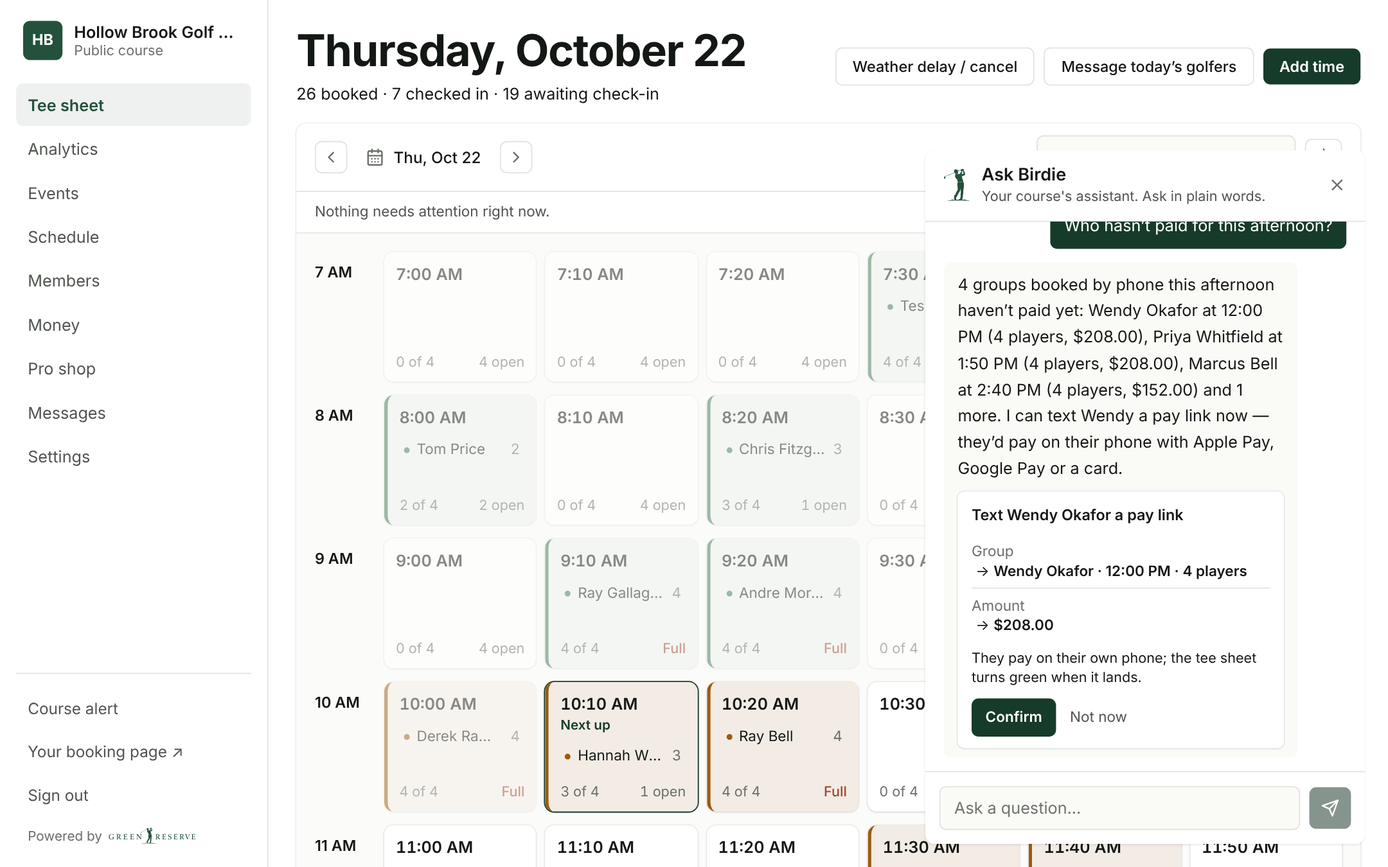
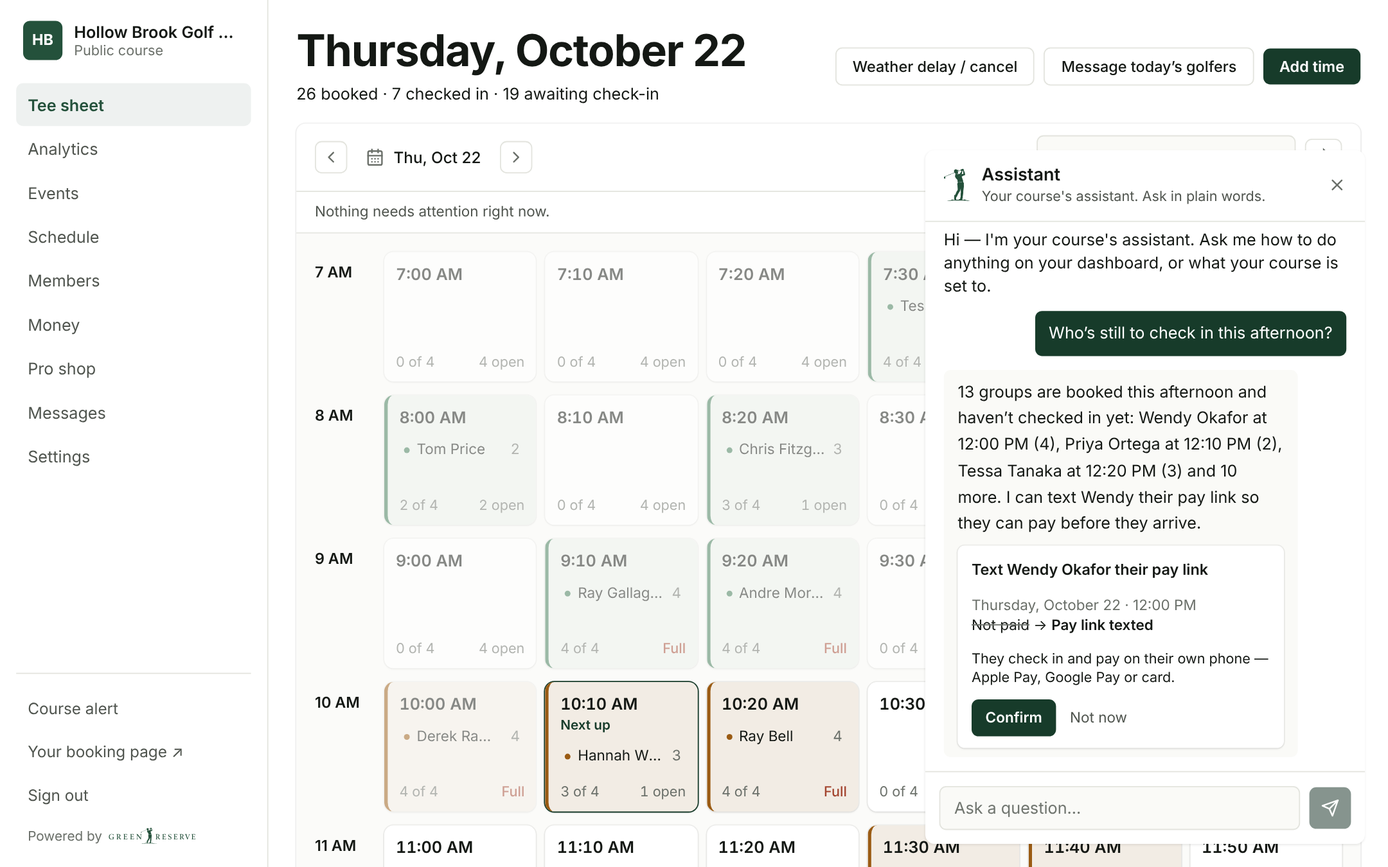
Screenshots review: the assistant shot uses the real pay-link card and only what its tee-sheet tool sees; the assistant is renamed in the product (Cam: no "Birdie" anywhere a course sees); a test for the pay-page fee line
Claude-Session: https://claude.ai/code/session_01Vfo7VSpLbxXZMJzCVcNzFL

Changed region(s): [[0.6824, 0.2489, 0.9926, 0.84], [0.7134, 0.1867, 0.7755, 0.2178]]

diff --git a/STATUS.artifact.html b/STATUS.artifact.html
@@ -117,14 +117,15 @@ footer{border-top:1px solid var(--line);padding-top:16px;font-size:12.5px;color:
     <p class="sub">Generated from <code>RUN_QUEUE.md</code>, <code>REVISE_QUEUE.md</code>, <code>ADMIN_MASTER_PLAN.md</code> and <code>git log</code>. Nothing here is hand-maintained &mdash; if a line is wrong, the source doc is wrong.</p>
   </div>
   <div class="meta">
-    <span>2026-10-23 02:19 UTC</span><span>claude/walkthrough-2-prioritization-ui5xyu @ b4ba083</span>
-    <span>11 uncommitted</span>
+    <span>2026-10-23 02:33 UTC</span><span>claude/walkthrough-2-prioritization-ui5xyu @ dd3cfd1</span>
+    <span>17 uncommitted</span>
   </div>
 </header>
 <div class="alarm">
-<div class="lede">138 runs have shipped that the queue doesn't know about</div>
+<div class="lede">139 runs have shipped that the queue doesn't know about</div>
 <p class="note">RUN_QUEUE.md was last committed 2026-10-17. These commits appear nowhere in it.</p>
 <ul>
+<li><span class="h">dd3cfd1</span><span>Product screenshots: three feature rows on the homepage, shots on /teesheet, seed + capture scripts; no $0.00 fee line on the pay page; sign-up card says when there's no player limit</span></li>
 <li><span class="h">b4ba083</span><span>TEST-2: test courses stay out of platform numbers, Problems and public lists (#193)</span></li>
 <li><span class="h">3754fcb</span><span>TEST-1: launch wipe of test data, and resettable test courses (#190)</span></li>
 <li><span class="h">d0a4769</span><span>CI: the schema check replays migrations on its own Postgres (#192)</span></li>
@@ -275,7 +276,7 @@ footer{border-top:1px solid var(--line);padding-top:16px;font-size:12.5px;color:
 <section><h2>Working tree right now</h2>
 <div class="card flag">
 <h3>A build looks mid-run</h3><p>New migration or source files are untracked. Don't run the queue header's <code>git checkout -- .</code> cleanup until this run commits, or the work is gone.</p>
-<ul class="plain"><li><code>M HOMEPAGE_SPEC.md</code></li><li><code>M docs/CODEMAP.md</code></li><li><code>M docs/codemap.json</code></li><li><code>M src/app/HomeContent.tsx</code></li><li><code>M src/app/checkin/[bookingId]/page.tsx</code></li><li><code>M src/app/home.module.css</code></li><li><code>M src/app/teesheet/page.tsx</code></li><li><code>M src/components/dashboard/events/EventSignup.tsx</code></li><li><code>?? public/home/shots/</code></li><li><code>?? scripts/screenshots/</code></li><li><code>?? src/components/home/ProductShot.tsx</code></li></ul>
+<ul class="plain"><li><code>M CLAUDE.md</code></li><li><code>M HOMEPAGE_SPEC.md</code></li><li><code>M public/home/shots/assistant.png</code></li><li><code>M public/home/shots/pay.png</code></li><li><code>M public/home/shots/tee-sheet.png</code></li><li><code>M scripts/birdie-messages-test.ts</code></li><li><code>M scripts/checkin-wording-test.ts</code></li><li><code>M scripts/screenshots/capture.ts</code></li><li><code>M scripts/screenshots/seed.ts</code></li><li><code>M src/app/HomeContent.tsx</code></li><li><code>M src/app/api/birdie/chat/route.ts</code></li><li><code>M src/app/dashboard/analytics/page.tsx</code></li><li><code>M src/app/dashboard/settings/page.tsx</code></li><li><code>M src/app/teesheet/page.tsx</code></li><li><code>M src/components/birdie/BirdieWidget.tsx</code></li><li><code>M src/components/birdie/ConfirmCard.tsx</code></li><li><code>M src/lib/birdie/guardrails.ts</code></li></ul>
 </div></section>
 <div class="cols"><div class="stack">
 <section><h2>Not started &mdash; in queue order</h2><div class="ledger">
@@ -320,8 +321,8 @@ footer{border-top:1px solid var(--line);padding-top:16px;font-size:12.5px;color:
 <tr><td><code>CLAUDE.md</code></td><td class="num">1</td><td class="num">2026-10-22 &middot; 0d</td></tr>
 <tr><td><code>PLATFORM_ROADMAP_SPEC.md</code></td><td class="num">1</td><td class="num">2026-10-17 &middot; 5d</td></tr>
 <tr><td><code>ADMIN_V5_SPEC.md</code></td><td class="num">&mdash;</td><td class="num">2026-10-22 &middot; 0d</td></tr>
+<tr><td><code>HOMEPAGE_SPEC.md</code></td><td class="num">&mdash;</td><td class="num">2026-10-23 &middot; 0d</td></tr>
 <tr><td><code>OPERATOR_REWORK_SPEC.md</code></td><td class="num">&mdash;</td><td class="num">2026-10-22 &middot; 0d</td></tr>
-<tr><td><code>HOMEPAGE_SPEC.md</code></td><td class="num">&mdash;</td><td class="num">2026-10-19 &middot; 3d</td></tr>
 <tr><td><code>AGREEMENT_SPEC.md</code></td><td class="num">&mdash;</td><td class="num">2026-10-11 &middot; 11d</td></tr>
 <tr><td><code>ADMIN_MASTER_PLAN.md</code></td><td class="num">&mdash;</td><td class="num">2026-10-07 &middot; 15d</td></tr>
 <tr><td><code>ADMIN_REBUILD_SPEC.md</code></td><td class="num">&mdash;</td><td class="num">2026-10-07 &middot; 15d</td></tr>
@@ -356,6 +357,7 @@ footer{border-top:1px solid var(--line);padding-top:16px;font-size:12.5px;color:
 <tr><td><code>UI_REVISE_SPEC.md</code></td><td class="num">&mdash;</td><td class="num">2026-10-07 &middot; 15d</td></tr>
 </tbody></table></div></section>
 <section><h2>Recent commits</h2><div class="tablewrap"><table><tbody>
+<tr><td class="num">dd3cfd1</td><td class="num">2026-10-23</td><td>Product screenshots: three feature rows on the homepage, shots on /teesheet, seed + capture scripts; no $0.00 fee line on the pay page; sign-up card says when there's no player limit</td></tr>
 <tr><td class="num">b4ba083</td><td class="num">2026-10-22</td><td>TEST-2: test courses stay out of platform numbers, Problems and public lists (#193)</td></tr>
 <tr><td class="num">3754fcb</td><td class="num">2026-10-22</td><td>TEST-1: launch wipe of test data, and resettable test courses (#190)</td></tr>
 <tr><td class="num">d0a4769</td><td class="num">2026-10-22</td><td>CI: the schema check replays migrations on its own Postgres (#192)</td></tr>
@@ -367,7 +369,6 @@ footer{border-top:1px solid var(--line);padding-top:16px;font-size:12.5px;color:
 <tr><td class="num">6ea9b46</td><td class="num">2026-10-22</td><td>Admin: Systems reorganised, Company docs and My profile restyled (AW-14/15/16) (#187)</td></tr>
 <tr><td class="num">3c63c5d</td><td class="num">2026-10-22</td><td>AW-11 Team: per-person access — each employee's role and areas (#186)</td></tr>
 <tr><td class="num">75ac7d5</td><td class="num">2026-10-22</td><td>AW-10 Golfers: lookup only, in the new admin look (#185)</td></tr>
-<tr><td class="num">95e1b37</td><td class="num">2026-10-22</td><td>Money PR2b: payouts to each course, dispute evidence pack, closed disputes, monthly Stripe match (#184)</td></tr>
 </tbody></table></div></section>
 <footer><span>Regenerate: <code>node scripts/status.mjs &amp;&amp; node scripts/status-html.mjs</code></span><span>Source of truth stays in the repo docs. This board only reports them.</span></footer>
 </div>

diff --git a/src/components/birdie/BirdieWidget.tsx b/src/components/birdie/BirdieWidget.tsx
@@ -121,7 +121,7 @@ export default function BirdieWidget() {
       });
       if (!r.ok || !r.body) {
         const d = await r.json().catch(() => ({}));
-        setTurns([...history, { role: 'assistant', content: String(d.error || `Birdie could not answer (${r.status}).`), error: true }]);
+        setTurns([...history, { role: 'assistant', content: String(d.error || `The assistant could not answer (${r.status}).`), error: true }]);
         return;
       }
       // B4a: the reply is NDJSON — one {"t","d"} event per line. "text" is reply
@@ -156,7 +156,7 @@ export default function BirdieWidget() {
       setTurns([...history, { role: 'assistant', content: acc || (cards.length ? '' : "…I didn't get a reply. Ask again?"), error: !acc && !cards.length, cards }]);
     } catch (err) {
       if ((err as { name?: string }).name === 'AbortError') return;
-      setTurns([...history, { role: 'assistant', content: 'Network error — Birdie could not answer. Check your connection and try again.', error: true }]);
+      setTurns([...history, { role: 'assistant', content: 'Network error — the assistant could not answer. Check your connection and try again.', error: true }]);
     } finally {
       setBusy(false);
       abortRef.current = null;
@@ -168,20 +168,20 @@ export default function BirdieWidget() {
   return (
     <>
       {!open && tucked && (
-        <button type="button" onClick={show} aria-label="Open Birdie"
+        <button type="button" onClick={show} aria-label="Open the assistant"
           className="fixed right-0 top-1/2 -translate-y-1/2 z-40 bg-white border border-r-0 border-line rounded-l-md px-1.5 py-3 text-[12px] font-semibold text-pine hover:bg-paper [writing-mode:vertical-rl]">
           Birdie
         </button>
       )}
       {!open && !tucked && (
         <div className="fixed bottom-[calc(5rem+env(safe-area-inset-bottom))] right-4 md:bottom-5 md:right-5 z-40 flex items-end gap-1.5">
-          <button type="button" onClick={tuck} aria-label="Tuck Birdie away" title="Tuck Birdie away"
+          <button type="button" onClick={tuck} aria-label="Tuck the assistant away" title="Tuck the assistant away"
             className="mb-1 w-9 h-9 rounded-full bg-white border border-line text-ink-muted hover:text-ink text-[13px] leading-none flex items-center justify-center">›</button>
           {/* Cam 2026-10-19: "it must be obvious that this is where you ask
               questions" — the circle says "Ask" so it doesn't read as a logo.
               W2-1: back in the corner on every screen (it reverses #143's top-bar
               button); the › beside it tucks it to an edge tab when it is in the way. */}
-          <button type="button" onClick={show} aria-label="Ask Birdie"
+          <button type="button" onClick={show} aria-label="Ask the assistant"
             className="w-14 h-14 rounded-full bg-white border border-pine/30 hover:border-pine/60 transition-colors flex flex-col items-center justify-center gap-0.5"
             style={{ boxShadow: '0 1px 2px rgba(0,0,0,.08)' }}>
             <Image src="/brand/golfer.svg" unoptimized alt="" width={18} height={22} className="h-[22px] w-auto" />
@@ -190,11 +190,11 @@ export default function BirdieWidget() {
         </div>
       )}
       {open && (
-        <div role="dialog" aria-label="Birdie" className="fixed bottom-5 right-5 z-40 w-[min(380px,calc(100vw-2rem))] max-h-[min(600px,calc(100vh-2.5rem))] bg-white rounded-lg shadow-card flex flex-col" style={{ boxShadow: '0 1px 2px rgba(0,0,0,.08)' }}>
+        <div role="dialog" aria-label="Assistant" className="fixed bottom-5 right-5 z-40 w-[min(380px,calc(100vw-2rem))] max-h-[min(600px,calc(100vh-2.5rem))] bg-white rounded-lg shadow-card flex flex-col" style={{ boxShadow: '0 1px 2px rgba(0,0,0,.08)' }}>
           <div className="flex items-center gap-2.5 px-4 py-3 border-b border-line">
             <Image src="/brand/golfer.svg" unoptimized alt="" width={22} height={27} className="h-7 w-auto" />
             <div className="min-w-0">
-              <div className="text-[15px] font-semibold text-ink leading-tight">Ask Birdie</div>
+              <div className="text-[15px] font-semibold text-ink leading-tight">Assistant</div>
               <div className="text-[12px] text-ink-soft truncate">Your course&apos;s assistant. Ask in plain words.</div>
             </div>
             <button type="button" onClick={close} aria-label="Close" className="ml-auto text-ink-muted hover:text-ink transition-colors"><X className="w-4 h-4" /></button>
@@ -212,13 +212,13 @@ export default function BirdieWidget() {
             {turns.map((t, i) => (
               <div key={i} className={t.role === 'user' ? 'flex justify-end' : 'flex justify-start'}>
                 <div className={'max-w-[88%] text-sm whitespace-pre-wrap leading-relaxed rounded-md px-3 py-2 ' + (t.role === 'user' ? 'bg-pine text-white' : t.error ? 'bg-bad/5 border border-bad/20 text-bad' : 'bg-paper text-ink')}>
-                  {t.role === 'assistant' && !t.content && t.pending ? <span className="text-ink-muted">{t.status || 'Birdie is thinking…'}</span> : t.role === 'assistant' ? <>{renderReply(t.content)}{t.pending && t.status ? <span className="block mt-1 text-ink-muted">{t.status}</span> : null}{t.cards?.map(c => <ConfirmCard key={c.id} card={c} />)}</> : t.content}
+                  {t.role === 'assistant' && !t.content && t.pending ? <span className="text-ink-muted">{t.status || 'Thinking…'}</span> : t.role === 'assistant' ? <>{renderReply(t.content)}{t.pending && t.status ? <span className="block mt-1 text-ink-muted">{t.status}</span> : null}{t.cards?.map(c => <ConfirmCard key={c.id} card={c} />)}</> : t.content}
                 </div>
               </div>
             ))}
           </div>
           <form className="flex items-center gap-2 px-3 py-3 border-t border-line" onSubmit={e => { e.preventDefault(); ask(input); }}>
-            <input ref={inputRef} value={input} onChange={e => setInput(e.target.value)} placeholder="Ask a question…" className={iCls} maxLength={1500} disabled={busy} aria-label="Message Birdie" />
+            <input ref={inputRef} value={input} onChange={e => setInput(e.target.value)} placeholder="Ask a question…" className={iCls} maxLength={1500} disabled={busy} aria-label="Message the assistant" />
             <button type="submit" disabled={busy || !input.trim()} aria-label="Send" className="w-9 h-9 flex items-center justify-center rounded-md bg-pine hover:bg-pine-hover disabled:opacity-50 text-white transition-colors"><Send className="w-4 h-4" /></button>
           </form>
         </div>

diff --git a/scripts/screenshots/capture.ts b/scripts/screenshots/capture.ts
@@ -12,15 +12,17 @@
 // install (npm i --prefix /tmp/pw playwright → /tmp/pw/node_modules/playwright).
 // Writes public/home/shots/*.png.
 //
-// The one thing not live: the AI assistant's reply. Its answer is built here
-// from the seeded tee sheet (the real unpaid groups) and handed to the real
-// widget, because the screenshot must not depend on a model call.
+// The one thing not live: the AI assistant's reply text, built here from
+// exactly what its get_tee_sheet tool returns for the seeded day and handed to
+// the real widget (a screenshot must not depend on a model call). Its confirm
+// card is the product's own, drafted by the real propose_send_pay_link.
 import { createRequire } from 'node:module';
 import { randomUUID } from 'node:crypto';
 import path from 'node:path';
 import { prisma } from '../../src/lib/prisma';
 import { signToken } from '../../src/lib/auth';
 import { formatTeeTime } from '../../src/lib/format';
+import { runProposeTool } from '../../src/lib/birdie/proposals';
 
 const BASE = process.env.SHOTS_URL ?? 'http://localhost:3124';
 const OUT = path.join(process.cwd(), 'public/home/shots');
@@ -86,17 +88,18 @@ async function main() {
   // ── The AI assistant: a real question about the day, answered from the seeded sheet, with a drafted change ──
   {
     const ctx = await laptop(); const p = await ctx.newPage();
-    const names = phoneGroups.slice(0, 3).map(g => `${g.golferName} at ${formatTeeTime(g.teeTime.time)} (${g.players} players, ${usd(g.totalAmount)})`);
-    const reply = `${phoneGroups.length} groups booked by phone this afternoon haven’t paid yet: ${names.join(', ')}${phoneGroups.length > 3 ? ` and ${phoneGroups.length - 3} more` : ''}. I can text ${payFor.golferName.split(' ')[0]} a pay link now — they’d pay on their phone with Apple Pay, Google Pay or a card.`;
-    const card = {
-      id: 'shot-card', title: `Text ${payFor.golferName} a pay link`,
-      changes: [{ label: 'Group', from: '', to: `${payFor.golferName} · ${formatTeeTime(payFor.teeTime.time)} · ${payFor.players} players` }, { label: 'Amount', from: '', to: usd(payFor.totalAmount) }],
-      note: 'They pay on their own phone; the tee sheet turns green when it lands.',
-      call: { method: 'PATCH', path: '/api/operator/bookings', body: { id: payFor.id, action: 'send_pay_link', via: 'sms' } },
-    };
+    // The reply holds only what the assistant's get_tee_sheet tool sees (names, times, players, booked
+    // vs checked in); the card is the product's own, made by its real propose_send_pay_link.
+    const due = unpaid.filter(g => !g.checkedInAt && !g.noShowAt);
+    const names = due.slice(0, 3).map(g => `${g.golferName} at ${formatTeeTime(g.teeTime.time)} (${g.players})`);
+    const reply = `${due.length} groups are booked this afternoon and haven’t checked in yet: ${names.join(', ')}${due.length > 3 ? ` and ${due.length - 3} more` : ''}. I can text ${payFor.golferName.split(' ')[0]} their pay link so they can pay before they arrive.`;
+    const drafted = await runProposeTool('propose_send_pay_link', { date: today, time: payFor.teeTime.time, golfer: payFor.golferName, via: 'sms' },
+      { courseId: course.id, timezone: TZ, can: () => true });
+    if (!('card' in drafted) || !drafted.card) throw new Error(`The real pay-link card refused: ${JSON.stringify(drafted)}`);
+    const card = drafted.card;
     await p.route('**/api/birdie/chat', async (route: { request: () => { method: () => string }; fulfill: (o: object) => Promise<void> }) => {
       if (route.request().method() === 'GET') {
-        return route.fulfill({ json: { enabled: true, persona: 'operator', greeting: "Hi — I'm Birdie. Ask me how to do anything on your dashboard, or what your course is set to.", chips: [], helpsWith: '' } });
+        return route.fulfill({ json: { enabled: true, persona: 'operator', greeting: "Hi — I'm your course's assistant. Ask me how to do anything on your dashboard, or what your course is set to.", chips: [], helpsWith: '' } });
       }
       const lines = [{ t: 'status', d: 'Looking at today’s tee sheet…' }, { t: 'text', d: reply }, { t: 'card', d: card }];
       return route.fulfill({ status: 200, contentType: 'application/x-ndjson', body: lines.map(l => JSON.stringify(l)).join('\n') + '\n' });
@@ -104,8 +107,8 @@ async function main() {
     await p.goto(`${BASE}/dashboard`, { waitUntil: 'load', timeout: 240000 });
     await p.getByText('Next up').first().waitFor({ timeout: 120000 });
     await clean(p);
-    await p.getByRole('button', { name: /Open Birdie|Ask Birdie/ }).first().click();
-    await p.getByLabel('Message Birdie').fill('Who hasn’t paid for this afternoon?');
+    await p.getByRole('button', { name: /Open the assistant|Ask the assistant/ }).first().click();
+    await p.getByLabel('Message the assistant').fill('Who’s still to check in this afternoon?');
     await p.getByRole('button', { name: 'Send' }).click();
     await p.getByText(card.title).waitFor({ timeout: 30000 });
     await p.waitForTimeout(400);

diff --git a/src/app/api/birdie/chat/route.ts b/src/app/api/birdie/chat/route.ts
@@ -36,7 +36,7 @@ import {
 
 export const dynamic = 'force-dynamic';
 
-const OPERATOR_GREETING = "Hi — I'm Birdie. Ask me how to do anything on your dashboard, or what your course is set to.";
+const OPERATOR_GREETING = "Hi — I'm your course's assistant. Ask me how to do anything on your dashboard, or what your course is set to.";
 const OPERATOR_CHIPS = [
   'How did the last 30 days go?',
   "What's on the tee sheet today?",
@@ -51,7 +51,7 @@ const TOOL_MAX_TOKENS = 4000;   // thinking counts toward this on Opus 5.5
 const MAX_TOOL_ROUNDS = 4;
 
 // Stable across every request → cached prefix. The course facts go AFTER it.
-const OPERATOR_SYSTEM = `You are Birdie, the GreenReserve assistant, talking to a golf course operator inside their GreenReserve dashboard.
+const OPERATOR_SYSTEM = `You are the GreenReserve assistant, talking to a golf course operator inside their GreenReserve dashboard. You have no name of your own: call yourself "your assistant", never a name.
 
 Your only job: help them run THEIR course on GreenReserve — how to do a dashboard task, what their course is set to, and how it has been doing. Answer from the knowledge below, the course facts you are given, and your tools. Nothing else.
 
@@ -84,8 +84,8 @@ export async function GET() {
 
 export async function POST(req: NextRequest) {
   const session = await resolveDashboardSession();
-  if (!session) return NextResponse.json({ error: 'Sign in to talk to Birdie.' }, { status: 401 });
-  if (!birdieEnabled()) return NextResponse.json({ error: 'Birdie is switched off right now.' }, { status: 503 });
+  if (!session) return NextResponse.json({ error: 'Sign in to use the assistant.' }, { status: 401 });
+  if (!birdieEnabled()) return NextResponse.json({ error: 'The assistant is switched off right now.' }, { status: 503 });
 
   // Caps BEFORE the body is read: a course that is over its budget must not be
   // able to make the server parse anything at all.
@@ -208,8 +208,8 @@ This login: ${session.isStaff ? 'staff' : 'course owner'} — can see analytics:
         console.error('[birdie] stream failed:', err);
         const authFailed = err instanceof Anthropic.AuthenticationError || err instanceof Anthropic.PermissionDeniedError;
         say(authFailed
-          ? 'Birdie is not configured correctly (its API key was rejected) — tell GreenReserve and we will fix it.'
-          : reply ? '\n\n(Lost the connection there — ask again.)' : 'Birdie could not answer just now — try again in a moment.');
+          ? 'The assistant is not configured correctly (its API key was rejected) — tell GreenReserve and we will fix it.'
+          : reply ? '\n\n(Lost the connection there — ask again.)' : 'The assistant could not answer just now — try again in a moment.');
       } finally {
         controller.close();
       }
@@ -237,9 +237,9 @@ export async function PUT(req: NextRequest) {
 }
 
 function apiError(err: unknown) {
-  if (err instanceof Anthropic.AuthenticationError) return NextResponse.json({ error: 'Birdie is not configured yet (API key).' }, { status: 503 });
-  if (err instanceof Anthropic.RateLimitError) return NextResponse.json({ error: 'Birdie is busy — try again in a minute.' }, { status: 429 });
-  if (err instanceof Anthropic.APIError) { console.error('[birdie] API error', err.status, err.message); return NextResponse.json({ error: 'Birdie could not answer just now — try again in a moment.' }, { status: 502 }); }
+  if (err instanceof Anthropic.AuthenticationError) return NextResponse.json({ error: 'The assistant is not configured yet (API key).' }, { status: 503 });
+  if (err instanceof Anthropic.RateLimitError) return NextResponse.json({ error: 'The assistant is busy — try again in a minute.' }, { status: 429 });
+  if (err instanceof Anthropic.APIError) { console.error('[birdie] API error', err.status, err.message); return NextResponse.json({ error: 'The assistant could not answer just now — try again in a moment.' }, { status: 502 }); }
   console.error('[birdie] error', err);
-  return NextResponse.json({ error: 'Birdie could not answer just now — try again in a moment.' }, { status: 500 });
+  return NextResponse.json({ error: 'The assistant could not answer just now — try again in a moment.' }, { status: 500 });
 }

diff --git a/src/app/dashboard/analytics/page.tsx b/src/app/dashboard/analytics/page.tsx
@@ -105,7 +105,7 @@ function Line({ label, value, sub, strong }: { label: string; value: string; sub
 }
 
 /** "Ask Birdie" — shown only once Birdie is on, so it never does nothing. */
-function Ask({ q, children = 'Ask Birdie about this' }: { q: string; children?: React.ReactNode }) {
+function Ask({ q, children = 'Ask the assistant about this' }: { q: string; children?: React.ReactNode }) {
   const on = useBirdieReady();
   if (!on) return null;
   return <button onClick={() => askBirdie(q)} className="shrink-0 text-[12.5px] font-medium text-pine hover:underline underline-offset-4">{children}</button>;
@@ -658,7 +658,7 @@ function AnalyticsInner() {
               <Card className="p-5">
                 <div className="flex flex-wrap items-baseline justify-between gap-x-4 gap-y-1 mb-3">
                   <h2 className="text-[17px] font-semibold text-ink">What to look at</h2>
-                  {birdieOn && <span className="text-[12.5px] text-ink-muted">Birdie, your assistant, can explain any of these</span>}
+                  {birdieOn && <span className="text-[12.5px] text-ink-muted">Your assistant can explain any of these</span>}
                 </div>
                 <ul className="divide-y divide-line-soft">
                   {notes.map((n, i) => (
@@ -668,7 +668,7 @@ function AnalyticsInner() {
                         <p className="text-[14px] text-ink leading-snug">{n.text}</p>
                         {n.tryThis && <p className="text-[13px] text-ink-soft mt-1 leading-snug">{n.tryThis}</p>}
                       </div>
-                      <Ask q={n.ask}>Ask Birdie</Ask>
+                      <Ask q={n.ask}>Ask the assistant</Ask>
                     </li>
                   ))}
                 </ul>

diff --git a/src/app/dashboard/settings/page.tsx b/src/app/dashboard/settings/page.tsx
@@ -499,7 +499,7 @@ function SettingsPageInner() {
           setForm(f => ({ ...f, description: d.description }));
           setDirtyFields(s => { if (!s.has('description')) return s; const next = new Set(s); next.delete('description'); return next; });
         })
-        .catch(() => toast('Birdie saved the description. Reload to see it here.'));
+        .catch(() => toast('The assistant saved the description. Reload to see it here.'));
     };
     window.addEventListener(APPLIED_EVENT, onApplied);
     return () => window.removeEventListener(APPLIED_EVENT, onApplied);
@@ -682,7 +682,7 @@ function SettingsPageInner() {
                 <Field label="Description">
                   {birdieOn && access.can('settings.edit') && (
                     <button type="button" onClick={askForDescription} className="mb-1.5 text-[12.5px] font-medium text-pine hover:underline underline-offset-4">
-                      {String(form.description ?? '').trim() ? 'Ask Birdie to improve it' : 'Ask Birdie to write it'}
+                      {String(form.description ?? '').trim() ? 'Ask the assistant to improve it' : 'Ask the assistant to write it'}
                     </button>
                   )}
                   <textarea value={(form.description as string)||''} onChange={e=>set('description',e.target.value)} rows={4} className={iCls + ' resize-none'} placeholder="Tell golfers what makes your course special — history, signature holes, views, etc."/>

diff --git a/scripts/screenshots/seed.ts b/scripts/screenshots/seed.ts
@@ -1,6 +1,6 @@
 // Product screenshots (Cam 2026-10-23): a fictional course with a believable
 // day on the tee sheet and two months of history, for scripts/screenshots/
-// capture.cjs to photograph. LOCAL DATABASES ONLY — it refuses any other host.
+// capture.ts to photograph. LOCAL DATABASES ONLY — it refuses any other host.
 //
 // Run: DATABASE_URL=postgresql://…@localhost:…/gr_shots npx tsx scripts/screenshots/seed.ts
 // Prints the course id and an operator token for the capture script.
@@ -29,7 +29,7 @@ const pick = <T,>(a: T[]) => a[Math.floor(rnd() * a.length)];
 // A pool of regulars (who come back) plus one-offs, so "booked more than once" reads like a real course.
 const REGULARS = Array.from({ length: 140 }, () => `${pick(FIRST)} ${pick(LAST)}`);
 const golfer = () => rnd() < 0.6 ? pick(REGULARS) : `${pick(FIRST)} ${pick(LAST)}`;
-/** Today, the capture is taken at 10:05 (capture.cjs fixes the browser's clock): earlier rounds have been played. */
+/** Today, the capture is taken at 10:05 (capture.ts fixes the browser's clock): earlier rounds have been played. */
 export const NOW_HOUR = 10;
 const pad = (n: number) => String(n).padStart(2, '0');
 const addDays = (d: string, n: number) => { const t = new Date(`${d}T12:00:00Z`); t.setUTCDate(t.getUTCDate() + n); return t.toISOString().slice(0, 10); };

diff --git a/src/app/HomeContent.tsx b/src/app/HomeContent.tsx
@@ -33,9 +33,9 @@ const DOES = [
 const FEATURES: { h: string; p: string; shot: string; device: 'laptop' | 'phone'; alt: string }[] = [
   {
     h: 'An assistant that knows your course.',
-    p: 'Ask who hasn’t paid, how last week went or which hours sit empty, and it answers from your own tee sheet. It can draft a change for you, like a pay link, a blocked time or a moved group, and nothing happens until you confirm it.',
+    p: 'Ask who’s still to check in, how last week went or which hours sit empty, and it answers from your own tee sheet. It can draft a change for you, like a pay link, a blocked time or a moved group, and nothing happens until you confirm it.',
     shot: 'assistant', device: 'laptop',
-    alt: 'The tee sheet with the AI assistant open, listing this afternoon’s unpaid groups and offering to text one of them a pay link',
+    alt: 'The tee sheet with the AI assistant open, listing the groups still to check in this afternoon and drafting a pay link for one of them',
   },
   {
     h: 'Know how your course is doing.',

diff --git a/scripts/birdie-messages-test.ts b/scripts/birdie-messages-test.ts
@@ -5,7 +5,7 @@ import { readFileSync } from 'fs';
 let failed = 0;
 const check = (label: string, ok: boolean) => { console.log(`${ok ? 'PASS' : 'FAIL'}  ${label}`); if (!ok) failed++; };
 const w = readFileSync('src/components/birdie/BirdieWidget.tsx', 'utf8');
-check('Birdie can be tucked into an edge tab', w.includes('aria-label="Tuck Birdie away"') && w.includes('aria-label="Open Birdie"'));
+check('Birdie can be tucked into an edge tab', w.includes('aria-label="Tuck the assistant away"') && w.includes('aria-label="Open the assistant"'));
 check('…and stays tucked until opened', w.includes("localStorage.setItem(TUCK_KEY, '1')") && w.includes("localStorage.getItem(TUCK_KEY) === '1'"));
 check('an Ask Birdie link untucks it', /onAsk[\s\S]{0,300}setTucked\(false\)/.test(w));
 check('on phones it sits above the bottom tab bar', w.includes('fixed bottom-[calc(5rem+env(safe-area-inset-bottom))] right-4'));

diff --git a/src/lib/birdie/guardrails.ts b/src/lib/birdie/guardrails.ts
@@ -46,10 +46,10 @@ const dayKey = () => new Date().toISOString().slice(0, 10);
  */
 export async function checkCaps(courseKey: string): Promise<string | null> {
   if (!(await rateLimit(`birdie:course:${courseKey}`, PER_SESSION_PER_HOUR, 3600))) {
-    return 'Birdie has answered a lot in the last hour — give it a little while, or write to us on Messages.';
+    return 'The assistant has answered a lot in the last hour — give it a little while, or write to us on Messages.';
   }
   if (!(await rateLimit(`birdie:day:${dayKey()}`, PLATFORM_PER_DAY, 86_400))) {
-    return "Birdie is resting for today. Everything it can help with is a page away in the sidebar, or write to us on Messages.";
+    return "The assistant is resting for today. Everything it can help with is a page away in the sidebar, or write to us on Messages.";
   }
   return null;
 }

diff --git a/scripts/checkin-wording-test.ts b/scripts/checkin-wording-test.ts
@@ -23,6 +23,9 @@ check('the route returns paidOffline', /paidOffline: booking\.paidOffline/.test(
 const page = readFileSync('src/app/checkin/[bookingId]/page.tsx', 'utf8');
 check('the page has a cancelled state', /info\.status === 'cancelled'/.test(page));
 check('a cash round is not "charged to your card"', /paidAtCounter/.test(page));
+// Phone and walk-in bookings carry no booking fee: no "$1.50 × 4 … $0.00" line (Cam 2026-10-23, seen in a screenshot).
+check('the booking-fee line shows only when there is a fee', /info\.accessFeeTotal > 0 && <div[^>]*><span>GreenReserve service fee/.test(page));
+check('the fee line is not hard-coded at $1.50', !/service fee \(\$1\.50 ×/.test(page));
 
 console.log(failed === 0 ? '\nALL PASS' : `\n${failed} FAILED`);
 process.exit(failed === 0 ? 0 : 1);

diff --git a/src/app/teesheet/page.tsx b/src/app/teesheet/page.tsx
@@ -90,7 +90,7 @@ const FEATURES: { h: string; p: string; items: string[]; shot?: Shot }[] = [
       'Ask how today looks, find a golfer’s booking, or check a schedule',
       'It can draft a change to the sheet, and nothing changes until you confirm it',
     ],
-    shot: { shot: 'assistant', device: 'laptop', alt: 'The tee sheet with the AI assistant open, listing this afternoon’s unpaid groups and offering to text one of them a pay link' },
+    shot: { shot: 'assistant', device: 'laptop', alt: 'The tee sheet with the AI assistant open, listing the groups still to check in this afternoon and drafting a pay link for one of them' },
   },
   {
     h: 'Analytics',
